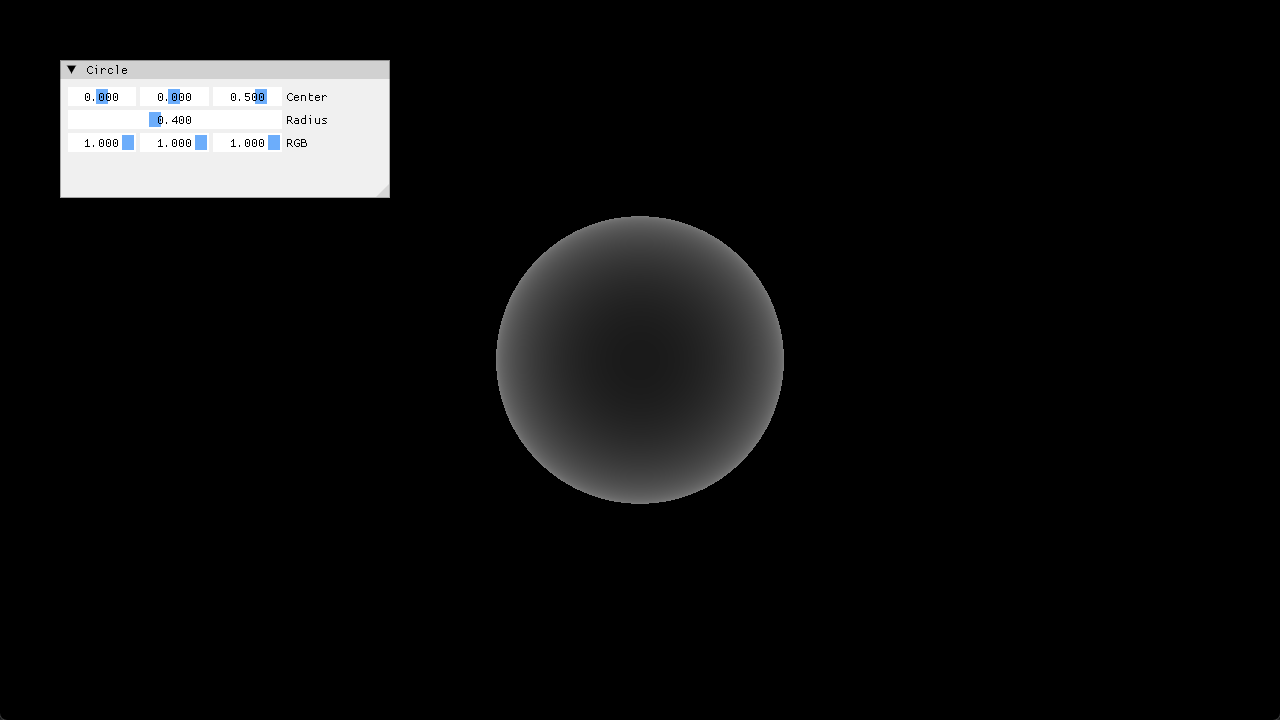
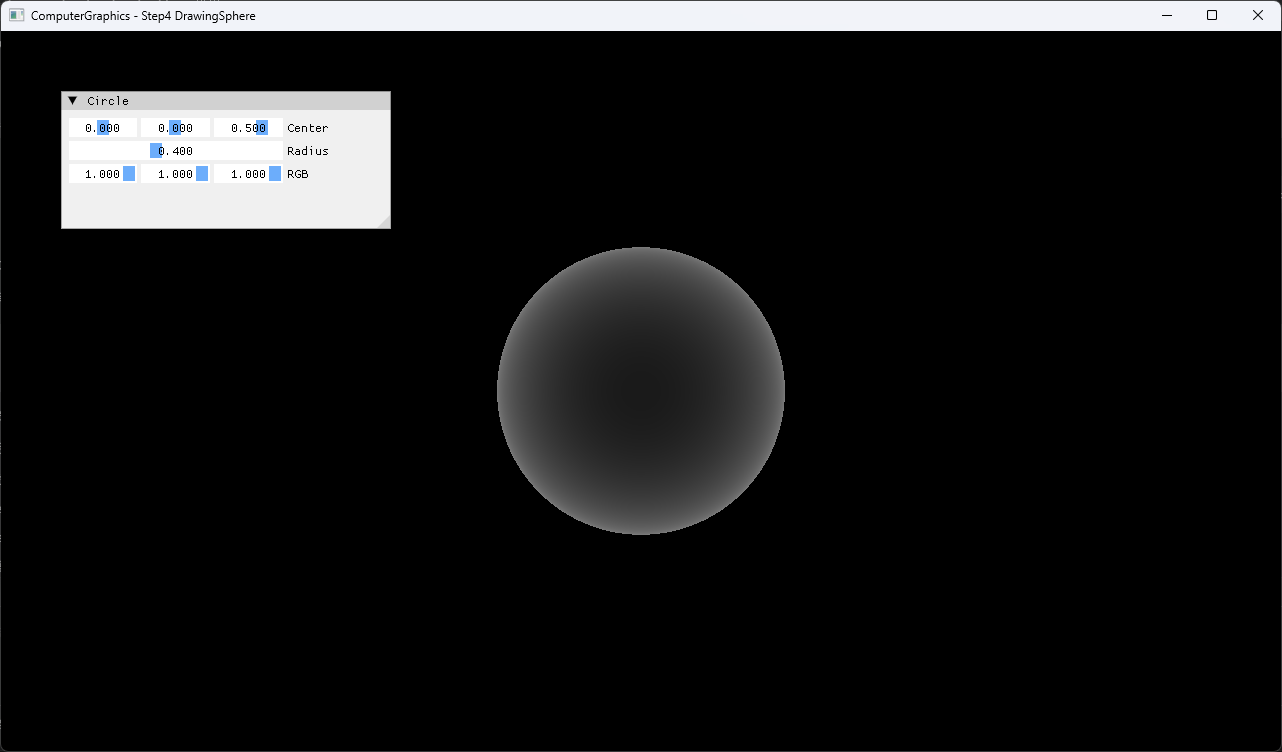
demo: Step4 전체 창 capture와 문서 품질 정리

diff --git a/Docs/03_Demos/Part1_Chapter03/demo-index.md b/Docs/03_Demos/Part1_Chapter03/demo-index.md
@@ -11,10 +11,10 @@
 
 | Demo 후보 | 상세 Demo | 연결 Example | 연결 Topic | Verification | Capture/Result | GitHub Demo Issue | 상태 | 비고 |
 | --- | --- | --- | --- | --- | --- | --- | --- | --- |
-| 최소 capture | [Step4 DrawingSphere](04_DrawingSphere.md) | [Step4 Example](../../../Part1_Chapter03/03_Raytracing_Step4_DrawingSphere/README.md) | [Ray](../../01_Topics/RayTracing/Ray.md), [Intersection](../../01_Topics/RayTracing/Intersection.md) | [현재 확인](../../02_Verification/Part1_Chapter03/verification-index.md) | [screenshot](../../_assets/captures/part1_chapter03_04_drawing-sphere.png) | 미게시 | 후보 | Step4 최소 capture 후보, 등급은 전체 Step 완료 후 확정 |
+| 최소 capture | [Step4 DrawingSphere](04_DrawingSphere.md) | [Step4 Example](../../../Part1_Chapter03/03_Raytracing_Step4_DrawingSphere/README.md) | [Ray](../../01_Topics/RayTracing/Ray.md), [Intersection](../../01_Topics/RayTracing/Intersection.md) | [현재 확인](../../02_Verification/Part1_Chapter03/verification-index.md) | [기본](../../_assets/captures/part1_chapter03_04_drawing-sphere.png), [파라미터 조정](../../_assets/captures/part1_chapter03_04_drawing-sphere_parameter-adjusted.png) | 미게시 | 후보 | Step4 최소 capture 후보, 등급은 전체 Step 완료 후 확정 |
 | 대표 capture | 없음 | 미확인 | 미확인 | [Verification](../../02_Verification/Part1_Chapter03/verification-index.md) | 없음 | 미게시 | 후보 | 전체 Step 완료 후 선정 |
 | video | 없음 | 미확인 | 미확인 | [Verification](../../02_Verification/Part1_Chapter03/verification-index.md) | 없음 | 미게시 | 미확인 | 전체 Step 완료 후 필요 여부 검토 |
-| Step4 DrawingSphere | [상세 Demo](04_DrawingSphere.md) | [Example README](../../../Part1_Chapter03/03_Raytracing_Step4_DrawingSphere/README.md) | [Ray](../../01_Topics/RayTracing/Ray.md), [Intersection](../../01_Topics/RayTracing/Intersection.md) | [현재 확인](../../02_Verification/Part1_Chapter03/verification-index.md) | [screenshot](../../_assets/captures/part1_chapter03_04_drawing-sphere.png) | 미게시 | 확보 | 2026-07-30 Debug/Release x64 확인 |
+| Step4 DrawingSphere | [상세 Demo](04_DrawingSphere.md) | [Example README](../../../Part1_Chapter03/03_Raytracing_Step4_DrawingSphere/README.md) | [Ray](../../01_Topics/RayTracing/Ray.md), [Intersection](../../01_Topics/RayTracing/Intersection.md) | [현재 확인](../../02_Verification/Part1_Chapter03/verification-index.md) | [기본](../../_assets/captures/part1_chapter03_04_drawing-sphere.png), [파라미터 조정](../../_assets/captures/part1_chapter03_04_drawing-sphere_parameter-adjusted.png) | 미게시 | 확보 | 2026-07-30 Debug/Release x64와 전체 창 비교 screenshot 확인 |
 | Step5 PhongShading | 없음 | `03_Raytracing_Step5_PhongShading` | 미확인 | [과거 확인](../../02_Verification/Part1_Chapter03/verification-index.md) | 없음 | 미게시 | 후보 | 문서 작성 대기 |
 | Step6 PerspectiveView | 없음 | `03_Raytracing_Step6_PerspectiveView` | 미확인 | [과거 확인](../../02_Verification/Part1_Chapter03/verification-index.md) | 없음 | 미게시 | 후보 | 문서 작성 대기 |
 | Step7 Triangle | 없음 | `03_Raytracing_Step7_Triangle` | 미확인 | [과거 확인](../../02_Verification/Part1_Chapter03/verification-index.md) | 없음 | 미게시 | 후보 | 문서 작성 대기 |

diff --git a/Docs/05_Publication/candidate-list.md b/Docs/05_Publication/candidate-list.md
@@ -13,7 +13,7 @@
 | Work Unit summary | `Docs/04_WorkLogs` | 작업 과정과 결과 요약으로 사용 가능 | 검토 필요 | WorkLog는 마감 snapshot이므로 public 문장으로 재작성 필요 | 최신 정본 링크 확인, 내부 판단 제거 | GitHub 본문은 `Docs/07_GitHub`에서 관리 |
 | `02_Bloom` example README | `Part1_Chapter01-02/02_Bloom/README.md` | bloom 처리 흐름과 DirectX11 texture upload를 직접 설명 가능 | 검토 필요 | Debug/Release x64 build/run 확인. ChatGPT 생성 입력 이미지로 결과 재생성 확인 | 공개 문장 재작성, input/result 출처 확인 |  |
 | `PostProcessingAndBloom` topic | `Docs/01_Topics/DirectX11Pipeline/PostProcessingAndBloom.md` | 일반적인 bloom 개념 설명으로 재작성 가능 | 검토 필요 | GPU bloom pipeline과 CPU 예제 한계를 명시해야 함 | Topic/Example 중복 축소, 표현 재작성 |  |
-| `Step4 DrawingSphere` Demo bundle | `Part1_Chapter03/03_Raytracing_Step4_DrawingSphere/README.md`, `Docs/03_Demos/Part1_Chapter03/04_DrawingSphere.md`, `Docs/_assets/captures/part1_chapter03_04_drawing-sphere.png` | 외부 input asset 없이 primary ray와 sphere intersection 결과를 설명 가능 | 검토 필요 | Debug/Release x64 build/run과 client-area screenshot 확인. PNG text/EXIF/XMP 정보와 개인 식별자 없음 | 공개 문장과 code permalink는 GitHub 후보 작성 시 검토 | Demo 등급과 GitHub 게시 여부는 Step4~14 완료 후 판단 |
+| `Step4 DrawingSphere` Demo bundle | `Part1_Chapter03/03_Raytracing_Step4_DrawingSphere/README.md`, `Docs/03_Demos/Part1_Chapter03/04_DrawingSphere.md`, `Docs/_assets/captures/part1_chapter03_04_drawing-sphere.png`, `Docs/_assets/captures/part1_chapter03_04_drawing-sphere_parameter-adjusted.png` | 외부 input asset 없이 primary ray와 sphere intersection 결과와 UI 파라미터 반영을 설명 가능 | 검토 필요 | Debug/Release x64 build/run과 공개 application title의 기본·파라미터 조정 전체 창 screenshot 확인. PNG text/EXIF/XMP 정보와 개인 식별자 없음 | 공개 문장과 code permalink는 GitHub 후보 작성 시 검토 | Demo 등급과 GitHub 게시 여부는 Step4~14 완료 후 판단 |
 
 ## 갱신 기준
 

diff --git a/Docs/02_Verification/Part1_Chapter03/verification-index.md b/Docs/02_Verification/Part1_Chapter03/verification-index.md
@@ -10,7 +10,7 @@
 
 | 예제 | solution | Debug build | Debug run | Release build | Release run | Provenance | 현재 재검증 | Capture | 비고 |
 | --- | --- | --- | --- | --- | --- | --- | --- | --- | --- | --- |
-| `03_Raytracing_Step4_DrawingSphere` | `Part1_Chapter03/03_Raytracing_Step4_DrawingSphere/03_Raytracing_Step4_DrawingSphere.sln` | 성공 | 성공 | 성공 | 성공 | 현재 확인 | 완료 | 확보 | project 폴더 CWD에서 shader load, sphere와 UI 확인 |
+| `03_Raytracing_Step4_DrawingSphere` | `Part1_Chapter03/03_Raytracing_Step4_DrawingSphere/03_Raytracing_Step4_DrawingSphere.sln` | 성공 | 성공 | 성공 | 성공 | 현재 확인 | 완료 | 확보 | project 폴더 CWD에서 shader load, 공개 application title, sphere UI와 기본·파라미터 조정 전체 창 screenshot 확인 |
 | `03_Raytracing_Step5_PhongShading` | `Part1_Chapter03/03_Raytracing_Step5_PhongShading/03_Raytracing_Step5_PhongShading.sln` | 성공 | 성공 | 성공 | 성공 | 과거 확인 | 필요 | 미확인 | 문서화 이전 확인 |
 | `03_Raytracing_Step6_PerspectiveView` | `Part1_Chapter03/03_Raytracing_Step6_PerspectiveView/03_Raytracing_Step6_PerspectiveView.sln` | 성공 | 성공 | 성공 | 성공 | 과거 확인 | 필요 | 미확인 | 문서화 이전 확인 |
 | `03_Raytracing_Step7_Triangle` | `Part1_Chapter03/03_Raytracing_Step7_Triangle/03_Raytracing_Step7_Triangle.sln` | 성공 | 성공 | 성공 | 성공 | 과거 확인 | 필요 | 미확인 | 문서화 이전 확인 |

diff --git a/Docs/_assets/captures/README.md b/Docs/_assets/captures/README.md
@@ -37,7 +37,8 @@ part2_chapter04_depth-buffer.png
 | --- | --- | --- | --- | --- |
 | `part1_chapter01-02_02_bloom_input.jpg` | input image | `Part1_Chapter01-02/02_Bloom` | 확보 | bloom 전 원본 비교 이미지 |
 | `part1_chapter01-02_02_bloom_result.png` | result image | `Part1_Chapter01-02/02_Bloom` | 확보 | ChatGPT 생성 입력 이미지 기반 `result.png`를 승격함 |
-| `part1_chapter03_04_drawing-sphere.png` | screenshot | `Part1_Chapter03/03_Raytracing_Step4_DrawingSphere` | 확보 | Debug x64 client area에서 sphere와 조절 UI 확인 |
+| `part1_chapter03_04_drawing-sphere.png` | screenshot | `Part1_Chapter03/03_Raytracing_Step4_DrawingSphere` | 확보 | Debug x64 전체 application window에서 기본 sphere와 조절 UI 확인 |
+| `part1_chapter03_04_drawing-sphere_parameter-adjusted.png` | screenshot | `Part1_Chapter03/03_Raytracing_Step4_DrawingSphere` | 확보 | 전체 application window에서 Center, Radius와 RGB 조정 결과 확인 |
 
 ## 승격 체크
 

diff --git a/Docs/02_Verification/capture-matrix.md b/Docs/02_Verification/capture-matrix.md
@@ -11,7 +11,7 @@
 | 범위 | 최소 capture/result | 대표 capture/result | video | 비고 |
 | --- | --- | --- | --- | --- |
 | Part1_Chapter01-02 | 확보 | 확보 | 제외 | `02_Bloom` input/result image를 `Docs/_assets/captures/part1_chapter01-02_02_bloom_input.jpg`, `Docs/_assets/captures/part1_chapter01-02_02_bloom_result.png`로 승격함. `01_DX11InitAndImGui` capture/result는 제외함 |
-| Part1_Chapter03 | 확보 | 미확인 | 미확인 | Step4 DrawingSphere screenshot 확보, 대표 등급은 전체 Step 완료 후 확정 |
+| Part1_Chapter03 | 확보 | 미확인 | 미확인 | Step4 DrawingSphere 기본·파라미터 조정 전체 창 screenshot 확보, 대표 등급은 전체 Step 완료 후 확정 |
 | Part2_Chapter04 | 미확인 | 미확인 | 미확인 | rasterization, depth buffer 후보 |
 | Part2_Chapter05-08 | 미확인 | 미확인 | 미확인 | modeling, IBL, bloom 후보 |
 | Part3_Chapter09 | 미확인 | 미확인 | 미확인 | interaction 영상 후보 |

diff --git a/Docs/06_Policies/demo-capture-policy.md b/Docs/06_Policies/demo-capture-policy.md
@@ -87,6 +87,8 @@ Chapter 또는 Chapter 묶음 단위 demo에서는 screenshot 최소 1개를 기
 - 권장 비율과 구도: 가능하면 16:9, 예제 결과가 중심에 보이는 화면
 - 파일명 기준: Part/Chapter/Example과 개념이 드러나는 이름
 
+전체 application window를 촬영하면 공개 가능한 application title과 window border는 포함할 수 있다. 이 경우 실행 결과 규격은 client 해상도를 기준으로 기록하며 OS theme, border와 DPI에 따른 전체 image dimensions 차이는 허용한다. 같은 Demo의 비교 capture는 가능한 한 동일한 window 크기, 위치와 capture 방식을 유지한다.
+
 예제 유형별 기본 요청 기준은 다음과 같다.
 
 | 예제 유형 | 우선 요청 | 기준 |

diff --git a/Docs/03_Demos/capture-plan.md b/Docs/03_Demos/capture-plan.md
@@ -120,7 +120,7 @@ portfolio_raytracer_reflection.png
 
 ## Part1 Chapter03 순차 계획
 
-- Step4 DrawingSphere screenshot을 확보했다.
+- Step4 DrawingSphere의 기본·파라미터 조정 screenshot을 동일한 전체 application window 규격으로 확보했다.
 - Step5~14는 build/run과 문서화를 같은 순서로 완료한 뒤 capture 필요성을 판단한다.
 - 각 Step은 독립 상세 Demo를 기본으로 하며 Chapter 전체를 하나의 Demo로 합치지 않는다.
 - 최소·대표·선택 등급은 Step4~14 상세 Demo가 완료된 뒤 확정한다.
